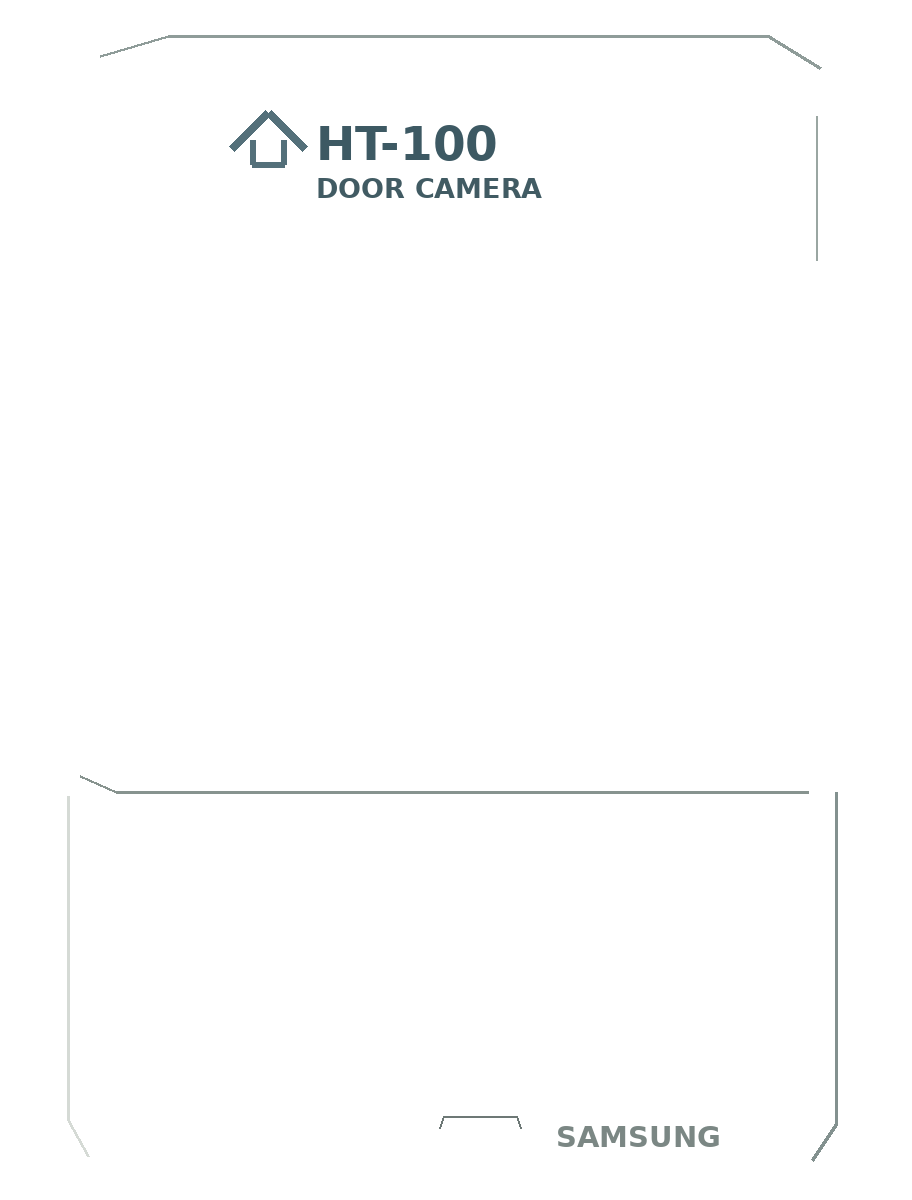
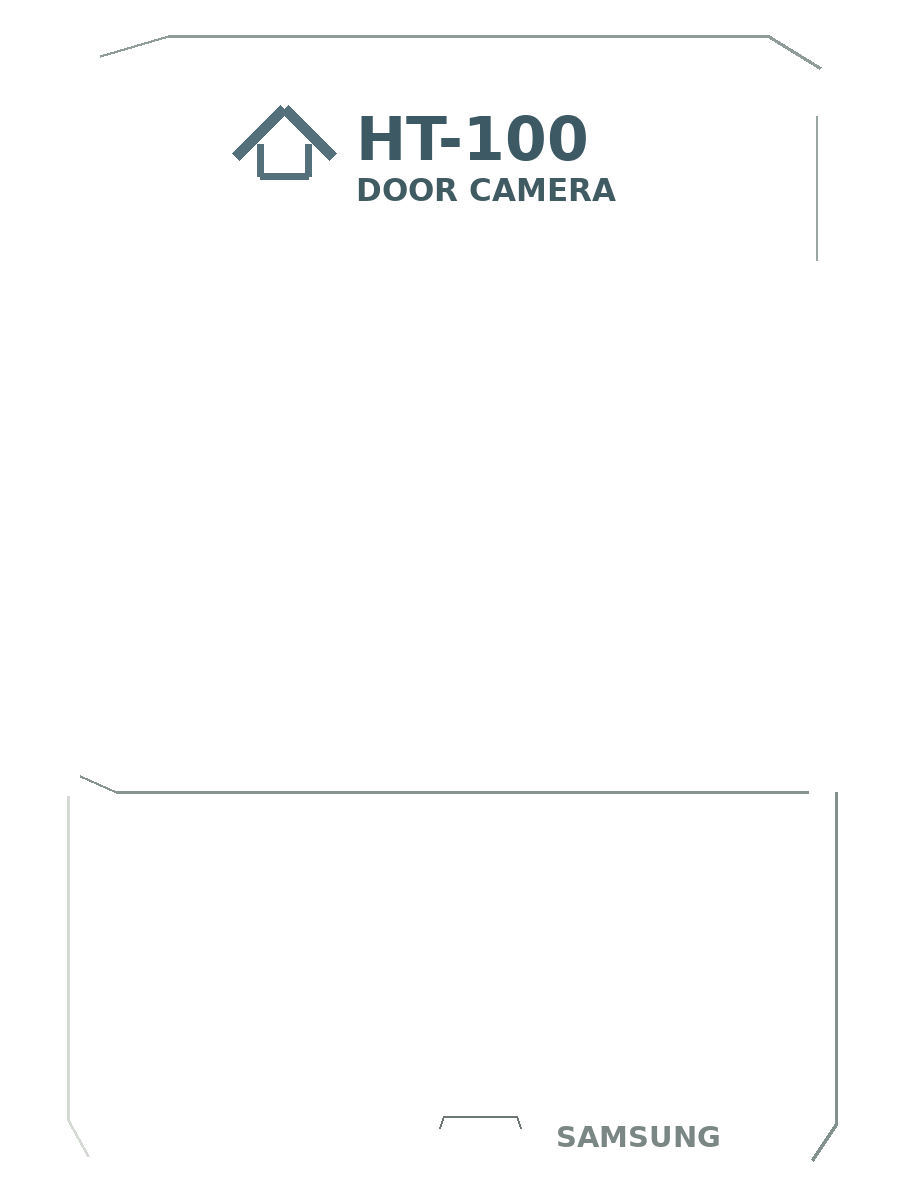
Expose HT-100 speaker and microphone details

Changed region(s): [[0.2456, 0.0925, 0.6754, 0.185]]

diff --git a/src/sht/java/com/qwerty/homenet/sht/Ht100Visual.java b/src/sht/java/com/qwerty/homenet/sht/Ht100Visual.java
@@ -27,15 +27,15 @@ final class Ht100Visual {
   // The upper lamp and concentric lens are separate from the dark glass.
   solid(p,o,l,"ht100_lamp",71,64,86,39,38.4f,.35f,1.3f,"#15334a",0);
   solid(p,o,l,"ht100_lens_outer",88,111,52,52,38.4f,.9f,26,"#161b25",0);
-  solid(p,o,l,"ht100_lens_ring",94,117,40,40,39.3f,.7f,20,"#505359",0);
-  solid(p,o,l,"ht100_lens_inner",99,122,30,30,40,1.2f,15,"#10141d",1.2f);
+  solid(p,o,l,"ht100_lens_ring",94,117,40,40,39.3f,.7f,20,"#342133",0);
+  solid(p,o,l,"ht100_lens_inner",99,122,30,30,40,1.2f,15,"#241320",1.2f);
   solid(p,o,l,"ht100_lens_pupil",107,130,14,14,41.2f,.35f,7,"#070b11",0);
   // Six long horizontal slits follow the photographed taper toward the right edge.
-  for(int i=0;i<6;i++){float y=213+i*12.1f,w=94-i*.55f;solid(p,o,l,"ht100_slot_"+i,24,y,w,3.7f,36.5f,.35f,1.7f,"#414e4b",0);line(p,o,l,27,y+.4f,w-8,.45f,37.1f,0x88928f);}
+  for(int i=0;i<6;i++){float y=213+i*12.1f,w=94-i*.55f;solid(p,o,l,"ht100_slot_"+i,24,y,w,3.7f,38.65f,.4f,1.7f,"#35433f",0);line(p,o,l,27,y+3.1f,w-8,.45f,39.15f,0xa1aaa5);}
   solid(p,o,l,"ht100_button_recess",132,207,73,72,36.8f,.5f,7,"#858f8e",0);
   solid(p,o,l,"ht100_button",135,210,67,66,37.3f,2.4f,6,"#bfc7c3",.6f);
   // Separate two-slot microphone, press-window, and bottom speaker-hole plug.
-  for(int i=0;i<2;i++)solid(p,o,l,"ht100_mic_"+i,209,36+i*12,6,3.2f,36.7f,.25f,1.2f,"#253034",0);
+  for(int i=0;i<2;i++)solid(p,o,l,"ht100_mic_"+i,209,36+i*12,6,3.2f,38.8f,.25f,1.2f,"#253034",0);
   solid(p,o,l,"ht100_button_window",166,215,12,4,39.7f,.2f,2,"#293a40",0);
   solid(p,o,l,"ht100_grille_plug",110,282,20,18,37.1f,1.2f,5,"#a9b2af",.4f);
   line(p,o,l,113,285,14,1,38.35f,0x414d4b);

diff --git a/src/shtTest/java/com/qwerty/homenet/sht/Ht100Probe.java b/src/shtTest/java/com/qwerty/homenet/sht/Ht100Probe.java
@@ -14,7 +14,10 @@ final class Ht100Probe {
   check(Math.abs(Ht100.WIDTH/Ht100.HEIGHT-228d/300)<1e-8&&Ht100.HEIGHT==.3,"HT-100 body ratio or 0.3 block height changed");
   double pmin=plain.vertices.stream().mapToDouble(MeshProbe.V::x).min().orElseThrow(),fmin=framed.vertices.stream().mapToDouble(MeshProbe.V::x).min().orElseThrow();
   check(fmin<pmin-5,"HT-100 surround is fused to the body");
-  for(int color:new int[]{0x414e4b,0x253034,0x293a40,0x10141d,0xa9b2af})check(plain.vertices.stream().anyMatch(v->v.color()==color),"HT-100 detail missing: "+color);
+  for(int color:new int[]{0x35433f,0x253034,0x293a40,0x241320,0xa9b2af})check(plain.vertices.stream().anyMatch(v->v.color()==color),"HT-100 detail missing: "+color);
+  // Presence in the mesh is insufficient: the original slot surfaces sat behind the front shell.
+  for(int i=0;i<6;i++){double center=213+i*12.1+1.85;check(plain.vertices.stream().anyMatch(v->v.color()==0x35433f&&Math.abs((700-v.y())-center)<2.2&&v.z()>38.9),"HT-100 speaker slot hidden behind shell: "+i);}
+  check(plain.vertices.stream().anyMatch(v->v.color()==0x253034&&v.z()>38.9),"HT-100 microphone hidden behind shell");
   check(plain.vertices.size()<40000&&framed.vertices.size()<40000,"HT-100 mesh too large");
   int builds=GeometryCache.builds;for(int i=0;i<8;i++)Ht100Visual.draw(new PoseStack(),t->new MeshProbe.Capture(),15728880,true);check(GeometryCache.builds==builds,"HT-100 mesh rebuilds every frame");
   System.out.println("HT100_MESH_PASS: 0.3-block body, separate frame, lens, lamp, mic, six grille slots, button and bottom plug; no images");

diff --git a/tools/sht/package.py b/tools/sht/package.py
@@ -8,7 +8,7 @@ caption_overrides={f'assets/qwertys_homenet/textures/block/kvm931t/{name}.png' f
 with zipfile.ZipFile(base) as b,zipfile.ZipFile(extra) as a,zipfile.ZipFile(target,'w',zipfile.ZIP_DEFLATED,compresslevel=9) as out:
  for path in b.namelist():
   raw=a.read(path) if path in caption_overrides else b.read(path)
-  if path=='META-INF/mods.toml':raw=raw.replace(b'version="1.0.8"',b'version="1.0.34"')+b'\n[[mods]]'+a.read(path).split(b'[[mods]]',1)[1]
+  if path=='META-INF/mods.toml':raw=raw.replace(b'version="1.0.8"',b'version="1.0.35"')+b'\n[[mods]]'+a.read(path).split(b'[[mods]]',1)[1]
   if path=='META-INF/MANIFEST.MF':raw=raw.replace(b'Implementation-Version: 1.0.8',b'Implementation-Version: 1.0.33')
   out.writestr(path,raw)
  out.writestr("META-INF/coremods.json",a.read("META-INF/coremods.json"))

diff --git a/tools/sht/ht100.py b/tools/sht/ht100.py
@@ -28,10 +28,10 @@ line([(20,194),(29,198),(202,198)],'#87938f',.7)
 line([(17,199),(17,280),(22,289)],'#d5dad5',.7)
 line([(209,198),(209,281),(203,290)],'#83918f',.7)
 # Samsung home-automation emblem in the position shown in the clean reference.
-line([(58,37),(67,28),(76,37)],'#54707a',2.1)
-line([(63,35),(63,41),(71,41),(71,35)],'#54707a',1.5)
-text(79,29,'HT-100',11.8,'#3d5963',True)
-text(79,43,'DOOR CAMERA',6.7,'#415b63',True)
+line([(59,39),(71,27),(83,39)],'#54707a',2.5)
+line([(65,36),(65,44),(77,44),(77,36)],'#54707a',1.7)
+text(89,26,'HT-100',15.0,'#3d5963',True)
+text(89,43,'DOOR CAMERA',7.7,'#415b63',True)
 text(139,280,'SAMSUNG',7.2,'#7b8784',True)
 # Tiny clean surface joints behind the two microphone apertures.
 line([(204,29),(204,65)],'#9aa6a2',.45)

diff --git a/docs/HT-100.md b/docs/HT-100.md
@@ -8,4 +8,6 @@
 
 홈링커로 세대 내부기기를 먼저 선택하고 HT-100에 사용하면 같은 단지의 세대번호가 연결됩니다. 호출 버튼을 클릭하면 해당 세대 내부기기에 착신하고 파란 표시창이 켜집니다. 통화는 본체 마이크·스피커를 사용하며, 통화 종료 시 표시창이 꺼집니다. 버튼을 다시 누르면 호출을 취소하거나 통화를 끊습니다. 실내기의 영상 통화·현관 확인 및 문열림 경로와 연결되며, 이동 도구로 위치를 옮길 수 있습니다.
 
+설치 화면에서 스피커 슬롯과 마이크가 앞커버에 가려진 문제를 수정했습니다. 여섯 슬롯의 실제 메시 표면이 앞커버보다 앞에 노출되는지 검사하고, 렌즈의 밝은 회색 고리를 사진에 가까운 어두운 자주색으로 바꿨습니다. 로고도 사진 비율에 맞춰 키웠습니다.
+
 서버 GameTest 40개와 실제 클라이언트의 HT-100 메시·월드 렌더링, 기존 통화·영상·이동 검사를 통과했습니다. 제품 사진이나 게임 스크린샷은 생성하지 않았습니다.

diff --git a/README.md b/README.md
@@ -1,3 +1,7 @@
+## HT-100 전면 세부 수정 — 1.0.35
+
+실제 설치 화면에서 가려진 스피커 슬롯과 마이크를 전면으로 복구하고, 렌즈 테두리와 로고 크기를 새 제품 사진에 맞췄습니다. [HT-100 변경 설명](docs/HT-100.md)
+
 ## 삼성 HT-100 도어카메라 — 1.0.34
 
 새로 제공된 깨끗한 제품 사진의 색상·비율을 기준으로 본체 높이 0.3블록인 HT-100을 추가했습니다. 분리 가능한 외곽틀, 렌즈·푸른 표시창·스피커 슬롯·마이크 두 줄·호출 버튼·하단 구멍막음 부품을 3D로 구성했습니다. 홈링커 연결, 착신·통화, 현관 영상, 이동을 지원합니다. [HT-100 제작·조작 설명](docs/HT-100.md)
